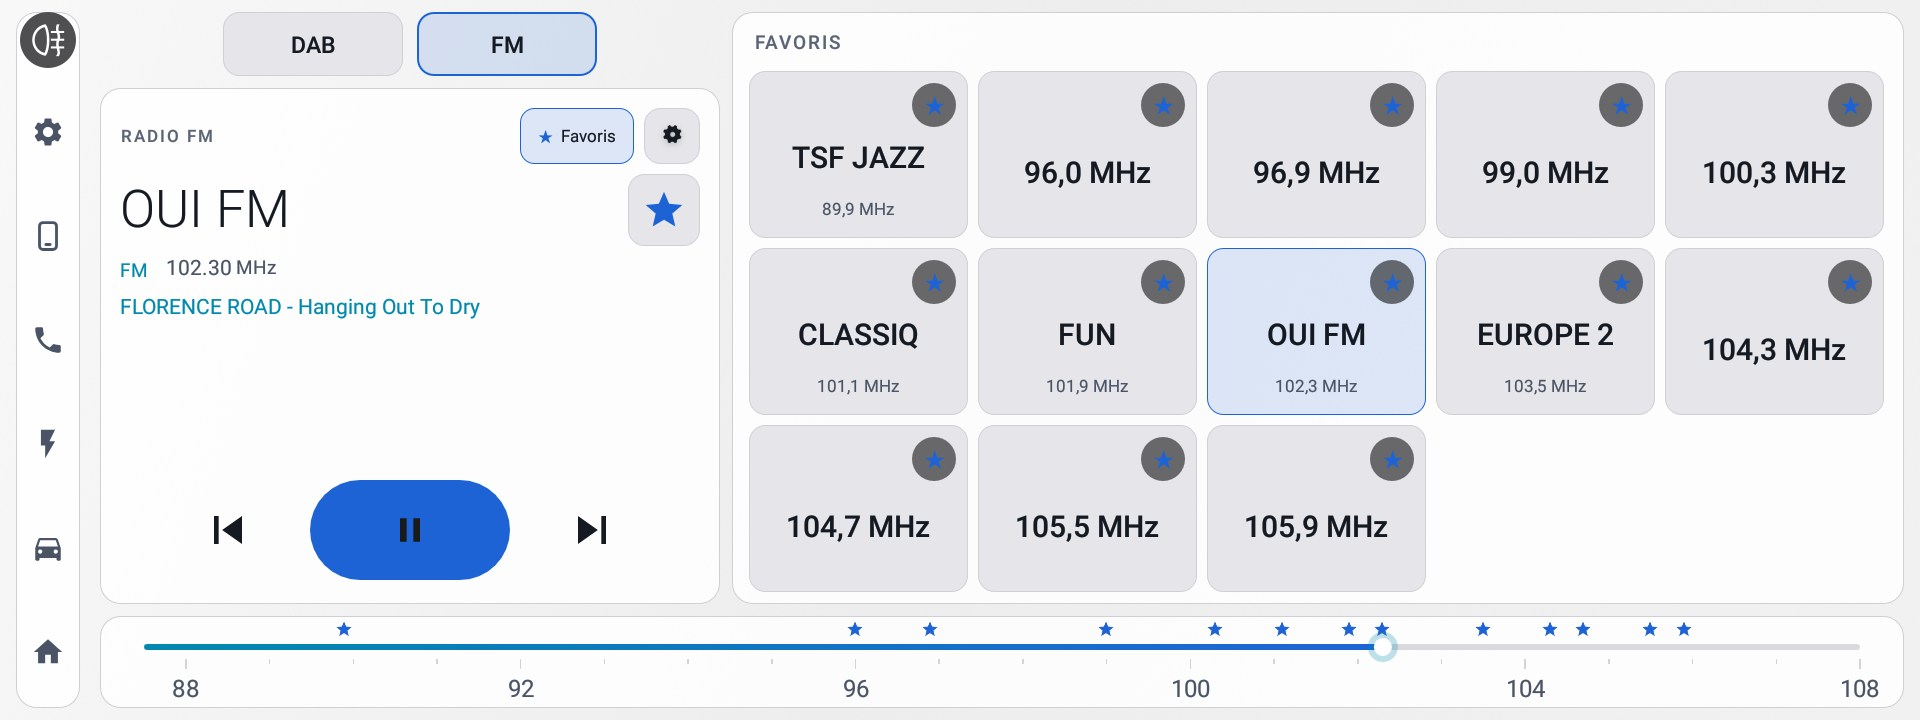
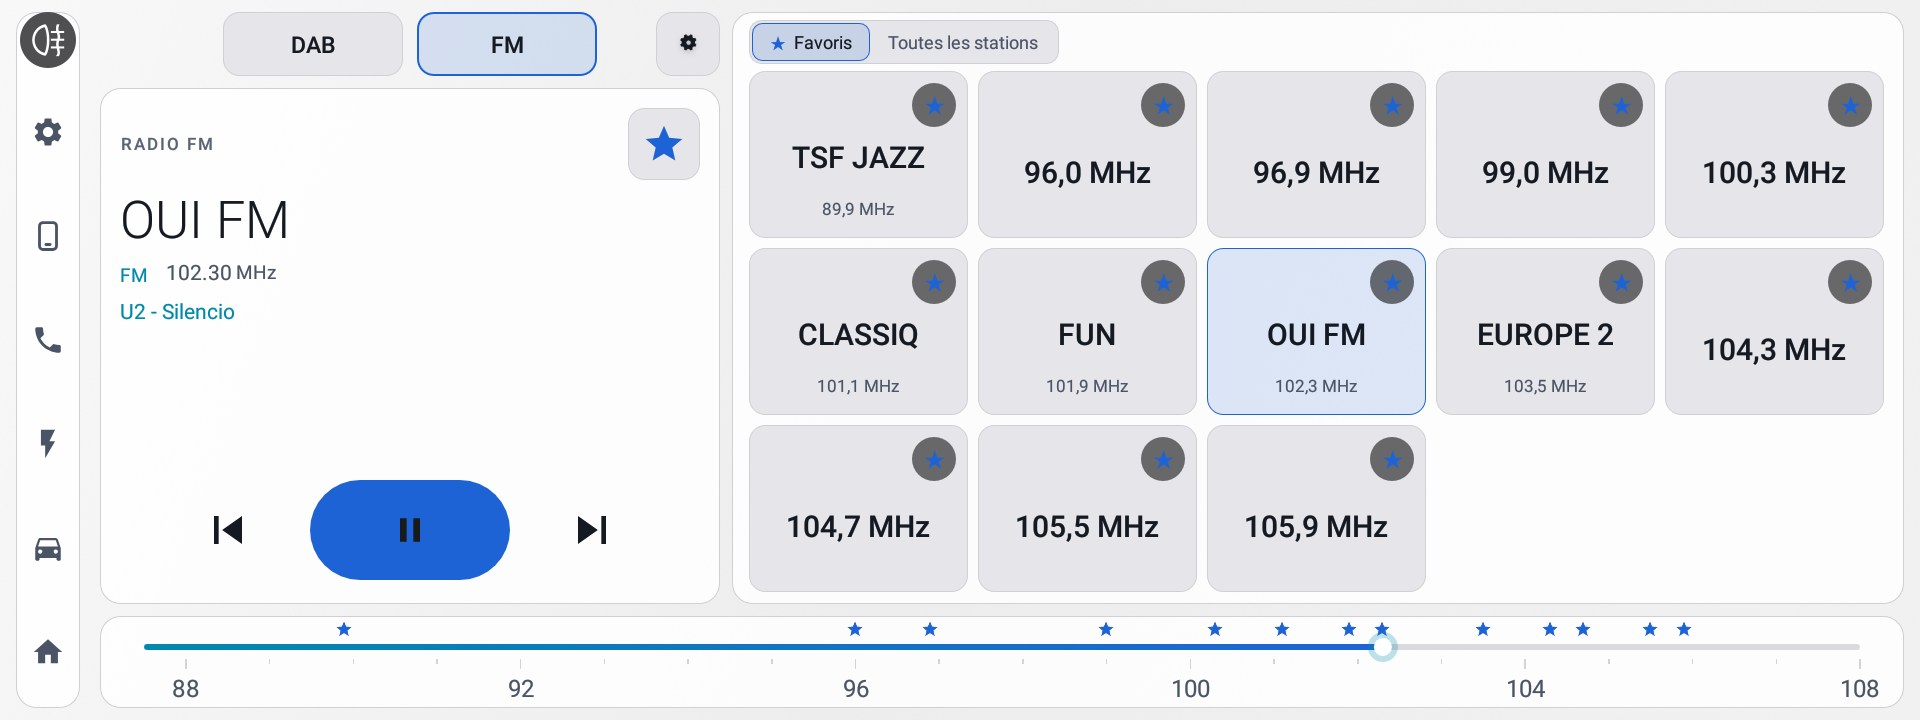
README screenshots: 1.6.1 beta 7

diff --git a/README.md b/README.md
@@ -12,7 +12,7 @@ This fork restyles the stock SAIC radio app to match **[MG4Dash](https://github.
 
 ![MG4 Radio Dash, FM](screenshots/radio-dash-fm.jpg)
 
-*Screenshots taken on the car with 1.6.1 beta 6: DAB+ with the Immersive player and the favourites (dark and light mode, channel after the multiplex name), DAB+ with every station (★ Favourites off, Scan shown), FM with the full-width dial.*
+*Screenshots taken on the car with 1.6.1 beta 7: DAB+ with the Immersive player and the favourites (dark and light mode), DAB+ with every station (All stations chosen in the header, Scan shown), FM with the full-width dial.*
 
 ### ★ Favourites and all stations, in the box on the right
 
